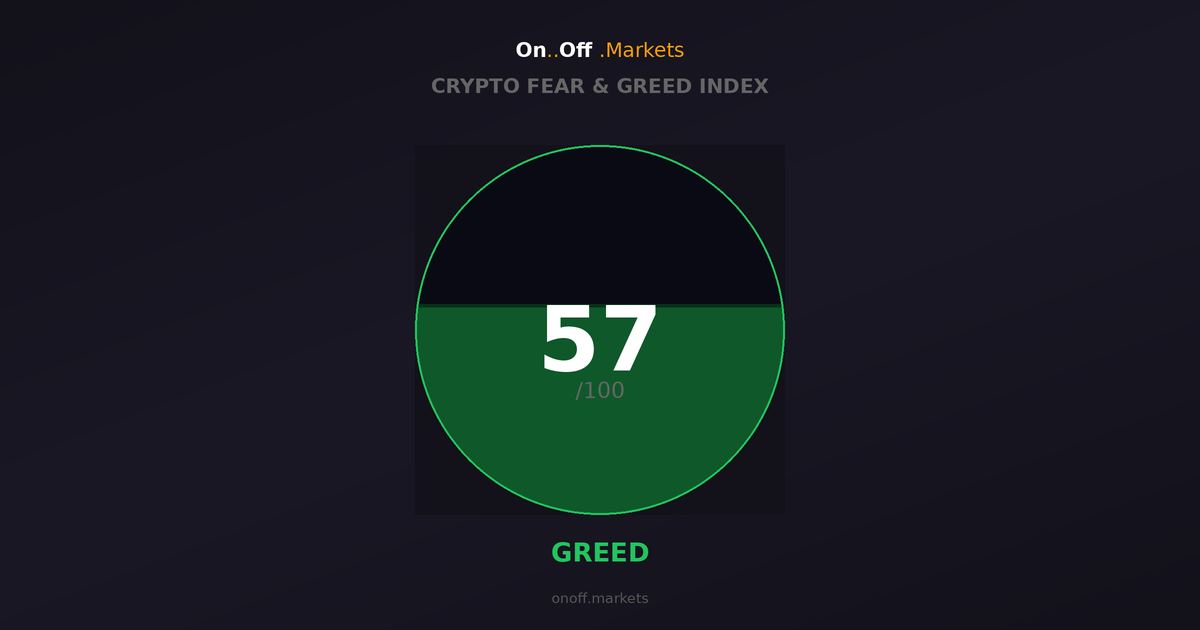
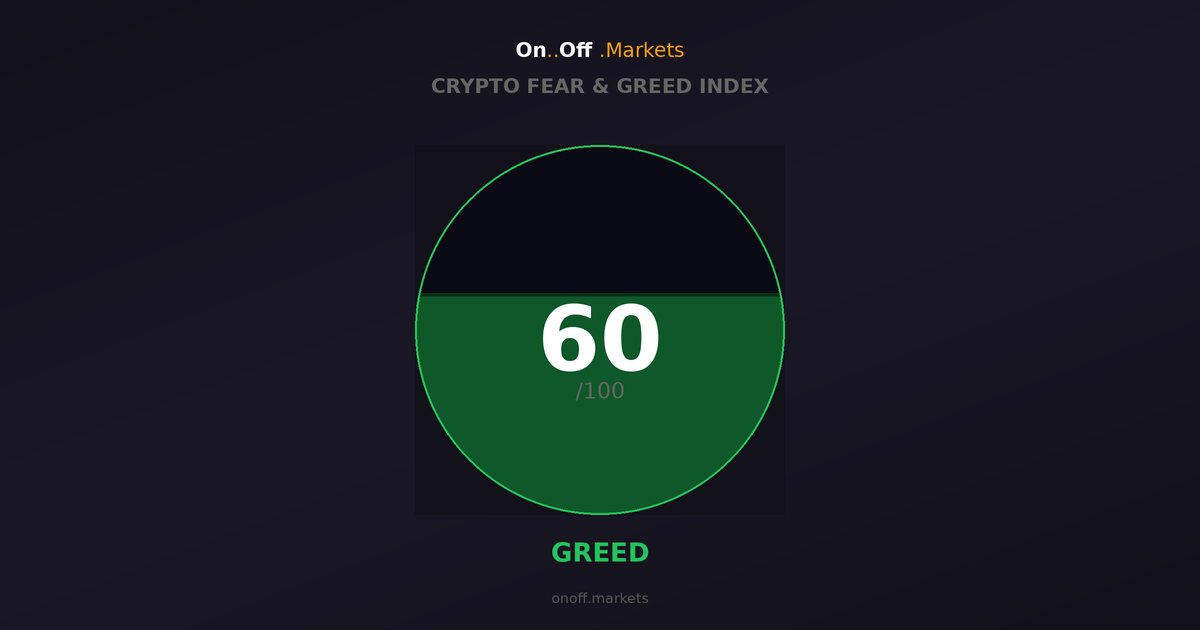
Update Gold, Stocks, Crypto & Bonds Fear & Greed Indices - 2026-04-26 05:13 UTC

Changed region(s): [[0.3392, 0.4524, 0.6475, 0.6032]]

diff --git a/index.html b/index.html
@@ -16,7 +16,7 @@
     <link rel="canonical" href="https://onoff.markets/">
 
     <!-- SEO Meta Tags -->
-    <meta name="description" content="Market sentiment is 55 (neutral). Gold 44, Bonds 54, Stocks 66, Crypto 57. Track real-time Fear &amp; Greed across 4 asset classes. Updated daily.">
+    <meta name="description" content="Market sentiment is 56 (greed). Gold 45, Bonds 54, Stocks 66, Crypto 60. Track real-time Fear &amp; Greed across 4 asset classes. Updated daily.">
     <meta name="keywords" content="market sentiment, fear and greed index, gold sentiment, bonds sentiment, crypto fear greed, stock market sentiment, market fear greed">
     <meta name="author" content="OnOff.Markets">
 
@@ -41,10 +41,10 @@
         "@type": "WebApplication",
         "name": "OnOff.Markets — Fear & Greed Index",
         "url": "https://onoff.markets",
-        "description": "Market sentiment is 55 (neutral). Gold 44, Bonds 54, Stocks 66, Crypto 57. Track real-time Fear & Greed across 4 asset classes. Updated daily.",
+        "description": "Market sentiment is 56 (greed). Gold 45, Bonds 54, Stocks 66, Crypto 60. Track real-time Fear & Greed across 4 asset classes. Updated daily.",
         "applicationCategory": "FinanceApplication",
         "operatingSystem": "All",
-        "dateModified": "2026-04-25",
+        "dateModified": "2026-04-26",
         "offers": {
                 "@type": "Offer",
                 "price": "0",
@@ -583,7 +583,7 @@
         <div class="header">
             <h1>Market Sentiment</h1>
             <div class="tagline">Are investors fearful or greedy today?</div>
-            <div class="updated" id="updated">Updated: April 25, 2026</div>
+            <div class="updated" id="updated">Updated: April 26, 2026</div>
         </div>
 
         <!-- Hero Score: Circle Gauge -->
@@ -607,10 +607,10 @@
                         <rect id="water-fill" x="0" y="200" width="200" height="200" fill="url(#fill-gradient)" />
                         <path id="wave" d="" fill="url(#fill-gradient)" opacity="0.6" />
                     </g>
-                    <text x="100" y="82" class="circle-score-text" id="score" text-anchor="middle" dominant-baseline="central">55</text>
+                    <text x="100" y="82" class="circle-score-text" id="score" text-anchor="middle" dominant-baseline="central">56</text>
                     <text id="sentimentArrow" class="circle-arrow" x="138" y="82" text-anchor="start" dominant-baseline="central"></text>
                     <text x="100" y="107" class="circle-suffix" text-anchor="middle" dominant-baseline="central">/100</text>
-                    <text x="100" y="155" class="circle-label" id="label" text-anchor="middle" dominant-baseline="central">NEUTRAL</text>
+                    <text x="100" y="155" class="circle-label" id="label" text-anchor="middle" dominant-baseline="central">GREED</text>
                 </svg>
             </div>
         </div>
@@ -621,7 +621,7 @@
                 <span class="insight-icon">💡</span>
                 <h2 class="insight-title">What's happening</h2>
             </div>
-            <div class="insight-text" id="insight">The Iran conflict remains the dominant macro force, with the Strait of Hormuz still closed and Brent crude near $105 a barrel, even as Trump extended the U.S.-Iran ceasefire indefinitely and the Israel-Lebanon ceasefire by three weeks. Blowout chip earnings, led by Intel surging ~25% and AMD following, are reinforcing the AI demand narrative and driving the week&#x27;s equity strength.</div>
+            <div class="insight-text" id="insight">U.S.-Iran peace talks collapsed again today after Trump scrapped Witkoff and Kushner&#x27;s Pakistan trip, calling Iran&#x27;s proposal insufficient. With the Strait of Hormuz still effectively closed and Brent near $105, geopolitical risk is keeping gold subdued relative to its earlier highs as equities absorb the tension. Tech and AI earnings momentum is doing the heavy lifting for stocks.</div>
             <div class="context-section" id="contextBox" style="display:none;">
                 <div class="context-label">Context <span class="beta-tag">Beta</span></div>
                 <div class="context-text" id="contextText"></div>
@@ -659,7 +659,7 @@
                             <rect id="goldFill" x="0" y="100" width="100" height="100" fill="url(#mini-grad-gold)"/>
                             <path id="goldWave" d="" fill="url(#mini-grad-gold)" opacity="0.5"/>
                         </g>
-                        <text x="50" y="50" class="mini-score-text" id="goldValue" text-anchor="middle" dominant-baseline="central">44</text>
+                        <text x="50" y="50" class="mini-score-text" id="goldValue" text-anchor="middle" dominant-baseline="central">45</text>
                     </svg>
                 </div>
                 <div class="asset-trend" id="goldTrend"></div>
@@ -743,7 +743,7 @@
                             <rect id="cryptoFill" x="0" y="100" width="100" height="100" fill="url(#mini-grad-crypto)"/>
                             <path id="cryptoWave" d="" fill="url(#mini-grad-crypto)" opacity="0.5"/>
                         </g>
-                        <text x="50" y="50" class="mini-score-text" id="cryptoValue" text-anchor="middle" dominant-baseline="central">57</text>
+                        <text x="50" y="50" class="mini-score-text" id="cryptoValue" text-anchor="middle" dominant-baseline="central">60</text>
                     </svg>
                 </div>
                 <div class="asset-trend" id="cryptoTrend"></div>
